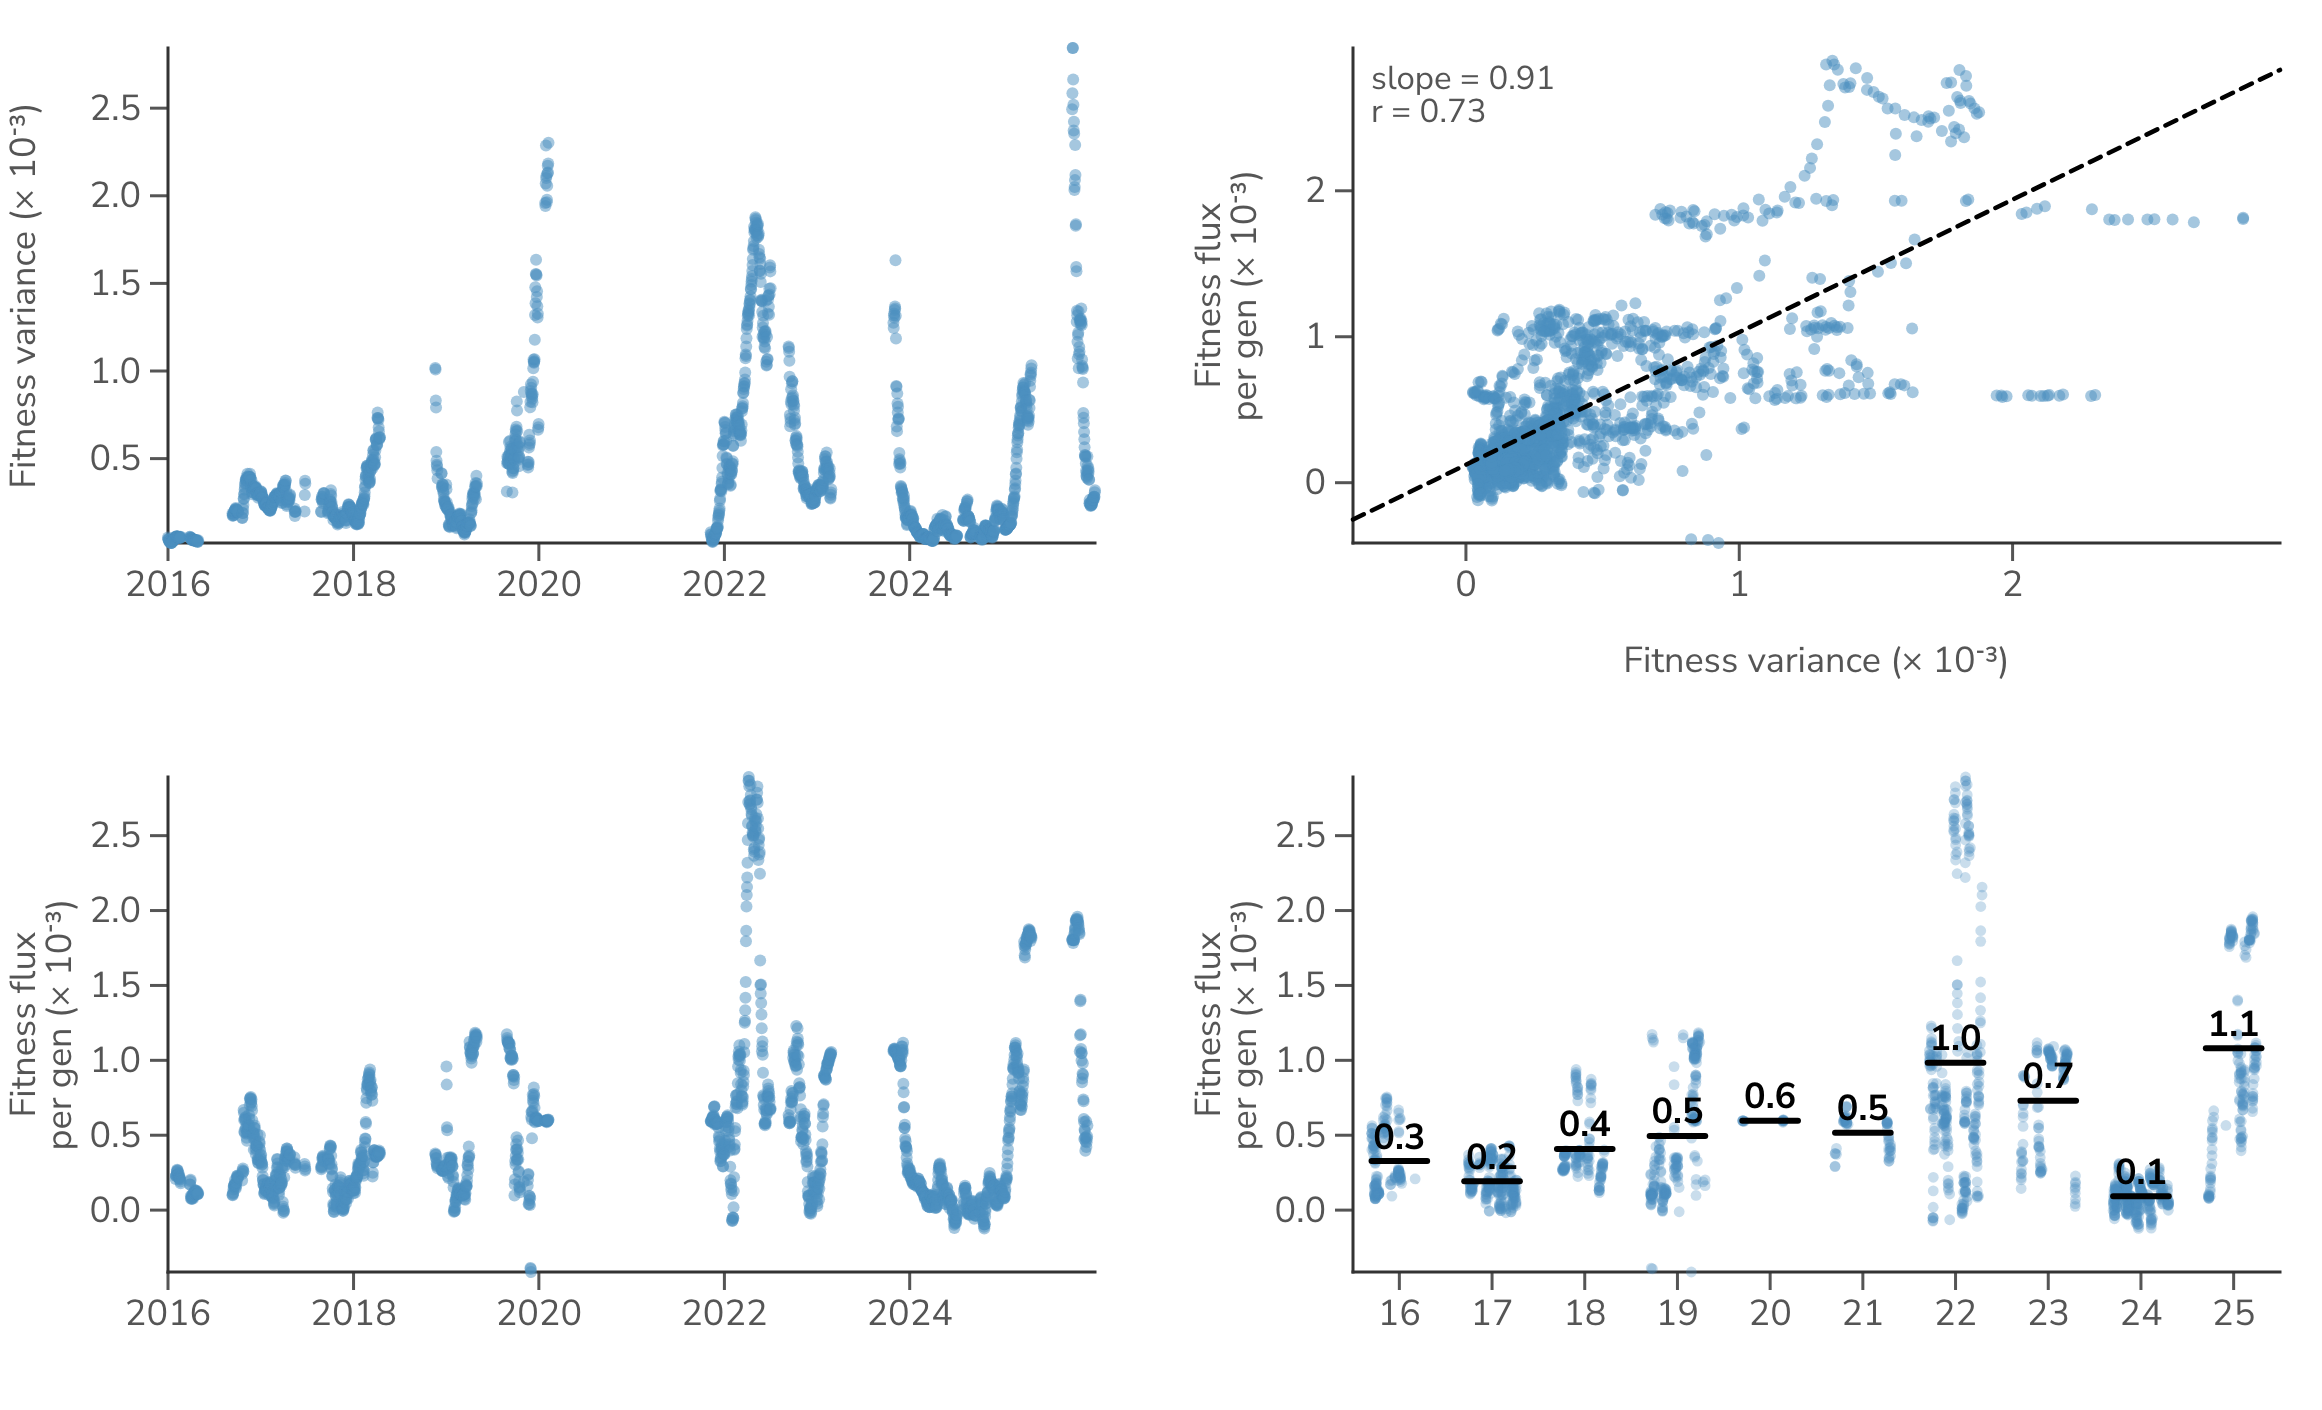
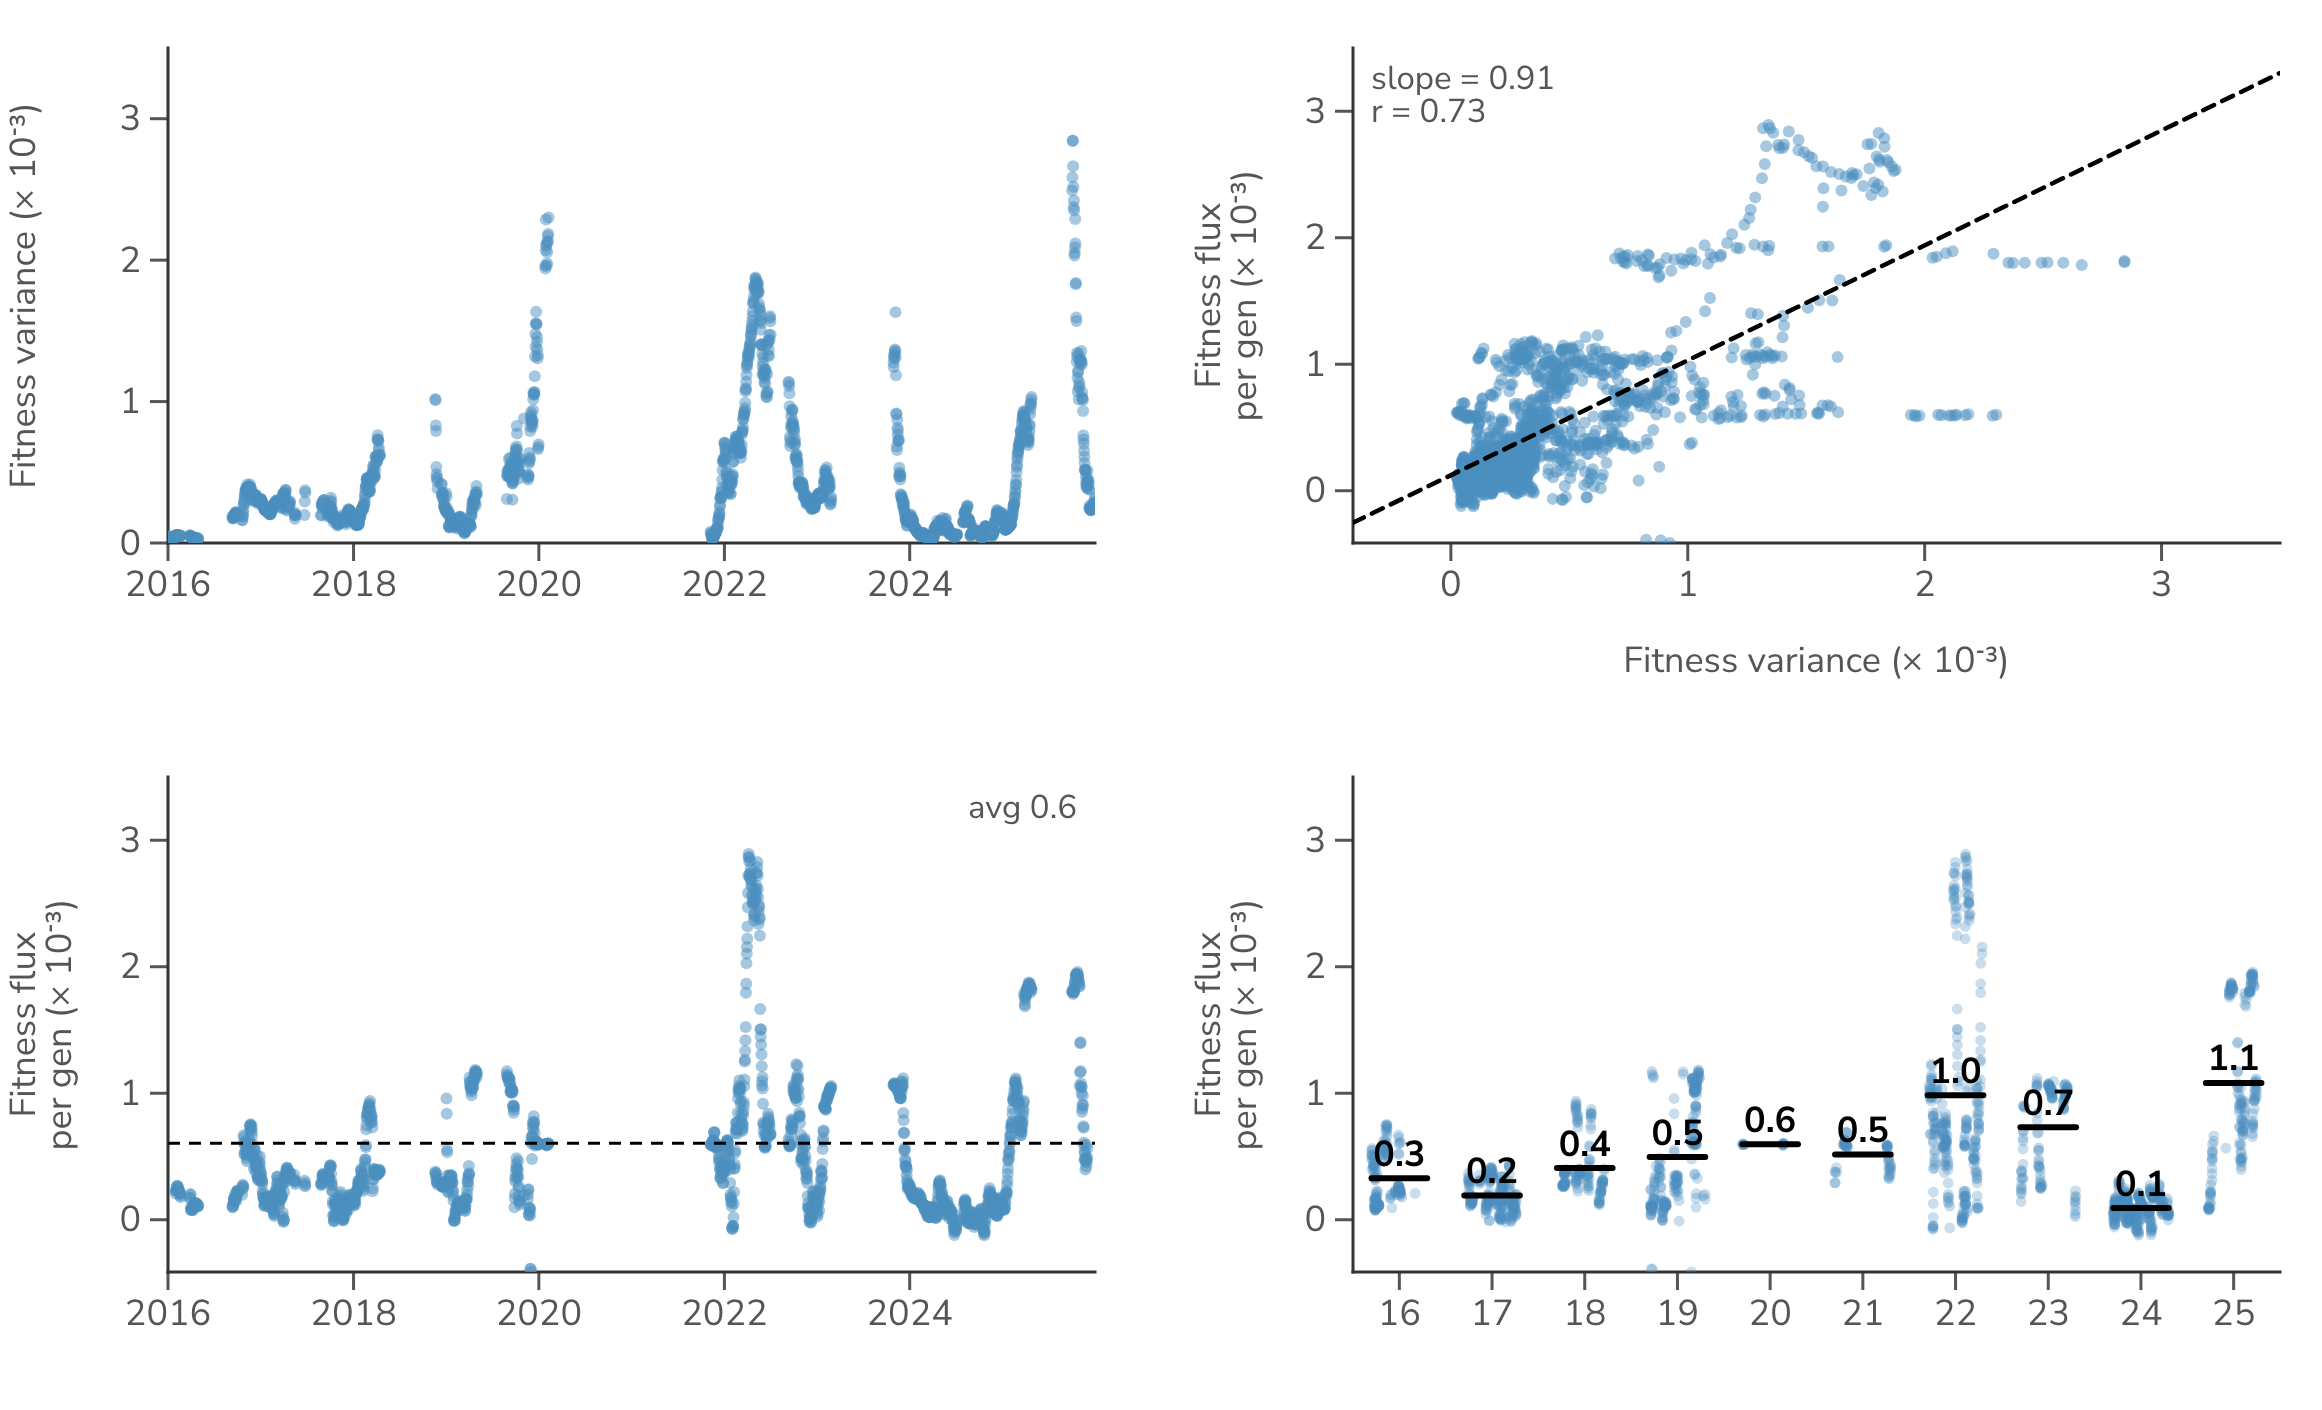
Add H1N1pdm and B/Victoria results subsection with figures
Present the H1N1pdm and B/Victoria fitness-flux experiment as a self-contained
"Other seasonal influenza lineages" results subsection, mirroring the H3N2
analysis over the same period.

- New subsection with six figures (time-vs-frequency, time-vs-fitness, and
  variance-vs-flux for each lineage) plus prose: both lineages accumulate
  directional fitness more slowly than H3N2 (doubling ~14 yr for H1N1pdm and
  ~43 yr for B/Victoria vs 10.0 yr for H3N2), with lower average flux on the
  time-weighted measure, and both track fitness variance per Fisher's theorem.
- Note the two windows excluded as single-clade (unfittable) and the earliest
  H1N1pdm windows' reliance on the "unassigned" background.
- Update the H3N2 average flux to the time-weighted value (0.5 -> 0.6e-3).
- Document the dashed time-weighted-average line now drawn in all four
  variance-vs-flux flux panels.
- Note that some flu windows are widened to bridge the 2020-2022 gap.
- Regenerate the affected figure PNGs.

diff --git a/manuscript/fitness-flux.md b/manuscript/fitness-flux.md
@@ -173,19 +173,83 @@ This shows that the rate of adaptation of SARS-CoV-2 has been slowing as low han
 :::figure{#fig:sarscov2-variance-flux component=variance-vs-flux dataset=sarscov2_clades scalemax=40}
 **Fitness variance and fitness flux in SARS-CoV-2.**
 Fitness variance is compared to fitness flux, where each dot represents a daily timepoint.
+In the lower-left flux-through-time panel, the dashed horizontal line marks the time-weighted average flux.
 :::
 
-Compared to SARS-CoV-2, influenza H3N2 shows generally lower rates of fitness flux, averaging $0.5 \times 10^{-3}$ per-gen from 2016 to 2025 ([@fig:h3n2-variance-flux]).
+Compared to SARS-CoV-2, influenza H3N2 shows generally lower rates of fitness flux, averaging $0.6 \times 10^{-3}$ per-gen from 2016 to 2025 ([@fig:h3n2-variance-flux]).
 This is roughly 3 times lower than recent years of SARS-CoV-2 fitness flux.
 However, it remains possible that SARS-CoV-2 slows further in the coming years.
 
-:::figure{#fig:h3n2-variance-flux component=variance-vs-flux dataset=h3n2_clades}
+:::figure{#fig:h3n2-variance-flux component=variance-vs-flux dataset=h3n2_clades scalemax=3.5}
 **Fitness variance and fitness flux in H3N2.**
 Fitness variance is compared to fitness flux, where each dot represents a daily timepoint.
+In the lower-left flux-through-time panel, the dashed horizontal line marks the time-weighted average flux.
 :::
 
 For both SARS-CoV-2 and influenza H3N2, the connection between fitness flux and fitness variance is clear.
 This suggests from first principles that interventions that decrease variance in fitness across the virus population would be expected to slow adaptation, while interventions that increase variance would be expected to speed adaptation.
+
+### Other seasonal influenza lineages
+
+To place the H3N2 result in context, we repeat the identical analysis strategy for the two other seasonal influenza lineages that circulate in humans, H1N1pdm and B/Victoria, over the same 2016 to 2025 period.
+As with H3N2, we use USA data, 2-year sliding windows (some widened to bridge the 2020-2022 low-circulation gap so that fitness scaffolds across it), a 2-week empirical-frequency smoothing window, and Nextclade HA subclades (`subclade_nextclade_ha`) as the variant classification.
+Two windows are necessarily excluded because they resolve to a single fittable clade in the USA and so carry no relative-fitness signal: the 2016-17 H1N1pdm window, which predates HA subclade resolution and consists almost entirely of unassigned sequences, and the 2021-22 B/Victoria window, a pandemic-era sampling and nomenclature gap between the A.3.2 and C.5 eras.
+The earliest H1N1pdm windows additionally lean on a paraphyletic "unassigned" background clade until genuine subclade resolution emerges around 2019-20.
+
+Relative frequencies for both lineages show the same alternation of clade emergence and replacement seen in H3N2 ([@fig:time-vs-frequency-h1n1pdm]; [@fig:time-vs-frequency-vic]).
+
+:::figure{#fig:time-vs-frequency-h1n1pdm component=time-vs-frequency dataset=h1n1pdm_clades}
+**Relative frequencies of H1N1pdm clades through time.**
+Points represent empirical frequencies of H1N1pdm Nextstrain clades, while solid lines represent modeled frequencies from multinomial logistic regression (MLR).
+All data is taken from the USA.
+The MLR analysis assumes that the fitness of each clade is constant through time.
+MLR frequency lines are drawn where there is sufficient sequence data to estimate empirical frequencies.
+:::
+
+:::figure{#fig:time-vs-frequency-vic component=time-vs-frequency dataset=vic_clades}
+**Relative frequencies of B/Victoria clades through time.**
+Points represent empirical frequencies of B/Victoria Nextstrain clades, while solid lines represent modeled frequencies from multinomial logistic regression (MLR).
+All data is taken from the USA.
+The MLR analysis assumes that the fitness of each clade is constant through time.
+MLR frequency lines are drawn where there is sufficient sequence data to estimate empirical frequencies.
+:::
+
+Translating these frequencies into cumulative fitness flux, we find that both lineages accumulate directional fitness more slowly than H3N2 over this period.
+H1N1pdm mean fitness doubles roughly every 14 years ([@fig:time-vs-fitness-h1n1pdm]), while B/Victoria accumulates fitness flux more slowly still, doubling roughly every 43 years ([@fig:time-vs-fitness-vic]).
+Both are slower than H3N2's doubling every 10.0 years, and far slower than SARS-CoV-2.
+
+:::figure{#fig:time-vs-fitness-h1n1pdm component=time-vs-fitness dataset=h1n1pdm_clades regressions=2016.0-2026.0}
+**Cumulative H1N1pdm fitness flux.**
+Empirical frequencies of H1N1pdm clades are represented by vertical thickness and placement on the y-axis represents cumulative fitness flux estimated from multinomial logistic regression (MLR).
+Gray lines are least-squares fits to the mean fitness over each labeled period, annotated with the implied doubling time.
+All data is taken from the USA.
+The MLR analysis assumes that the fitness of each clade is constant through time.
+:::
+
+:::figure{#fig:time-vs-fitness-vic component=time-vs-fitness dataset=vic_clades regressions=2016.0-2026.0}
+**Cumulative B/Victoria fitness flux.**
+Empirical frequencies of B/Victoria clades are represented by vertical thickness and placement on the y-axis represents cumulative fitness flux estimated from multinomial logistic regression (MLR).
+Gray lines are least-squares fits to the mean fitness over each labeled period, annotated with the implied doubling time.
+All data is taken from the USA.
+The MLR analysis assumes that the fitness of each clade is constant through time.
+:::
+
+The average rate of fitness flux mirrors this ordering.
+H1N1pdm averages $0.5 \times 10^{-3}$ per-gen and B/Victoria $0.15 \times 10^{-3}$ per-gen, both below the $0.6 \times 10^{-3}$ per-gen observed for H3N2 ([@fig:h1n1pdm-variance-flux]; [@fig:vic-variance-flux]).
+We time-weight this average across daily timepoints so that uneven sampling density does not bias it; a plain per-timepoint mean would overweight densely-sampled high-flux stretches (for H1N1pdm, the 2024-2025 D.3.1 sweep) and inflate the average above the net rate implied by the cumulative fitness flux.
+In both lineages, as in SARS-CoV-2 and H3N2, fitness flux tracks fitness variance in line with Fisher's fundamental theorem (H1N1pdm slope = 0.85, Pearson $r$ = 0.82; B/Victoria slope = 0.82, $r$ = 0.66).
+
+:::figure{#fig:h1n1pdm-variance-flux component=variance-vs-flux dataset=h1n1pdm_clades scalemax=3.5}
+**Fitness variance and fitness flux in H1N1pdm.**
+Fitness variance is compared to fitness flux, where each dot represents a daily timepoint.
+In the lower-left flux-through-time panel, the dashed horizontal line marks the time-weighted average flux.
+:::
+
+:::figure{#fig:vic-variance-flux component=variance-vs-flux dataset=vic_clades scalemax=3.5}
+**Fitness variance and fitness flux in B/Victoria.**
+Fitness variance is compared to fitness flux, where each dot represents a daily timepoint.
+In the lower-left flux-through-time panel, the dashed horizontal line marks the time-weighted average flux.
+:::
 
 ### Mutational fitness effects
 
